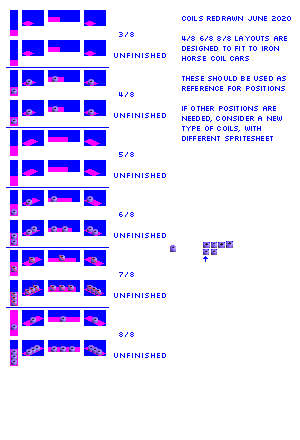
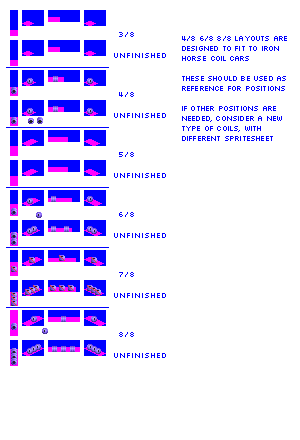
Change: add longitudinal coils (copper, steel)

diff --git a/src/constants.py b/src/constants.py
@@ -198,7 +198,8 @@ cargo_spritesheet_bounding_boxes_base = ((10, 10, 18, 36), (22, 10, 44, 26), (48
 # 2. this permits fine-grained control, e.g. cargos that can only go in open vehicles, outsized cargo that needs flats etc
 # also supports multiple cargo sprite types to suit vehicle, e.g. piled fruit, fruit in crates etc
 # keep alphabetised for general quality-of-life
-piece_vehicle_type_to_sprites_maps = {'flat': ['barrels_silver', 'copper_coils_eye_to_sky', 'crates_1', 'logs',
+piece_vehicle_type_to_sprites_maps = {'coil': ['copper_coils_eye_longitudinal', 'steel_coils_eye_longitudinal', 'tarps_2cc_1'], # tarps_2cc_1 for DFLT
+                                      'flat': ['barrels_silver', 'copper_coils_eye_to_sky', 'crates_1', 'logs',
                                               'lumber_planks', 'paper_coils_eye_to_sky', 'steel_coils_eye_to_sky',
                                               'tarps_2cc_1', 'tarps_blue_1', 'tarps_gold_1', 'tarps_red_1'],
                                       'open':['barrels_silver', 'coffee', 'copper_coils_eye_to_sky', 'crates_1', 'fruit', 'logs',
@@ -212,6 +213,7 @@ piece_vehicle_type_to_sprites_maps = {'flat': ['barrels_silver', 'copper_coils_e
 # DFLT label is a hack to support cargos with no specific sprites (including unknown cargos), and should not be added to cargo translation table
 piece_sprites_to_cargo_labels_maps = {'barrels_silver': ['BEER', 'DYES', 'EOIL', 'MILK', 'OIL_', 'PETR', 'RFPR', 'WATR'],
                                       'coffee': ['JAVA'],
+                                      'copper_coils_eye_longitudinal': ['COPR'],
                                       'copper_coils_eye_to_sky': ['COPR'],
                                       'crates_1': ['GOOD'],
                                       'fruit': ['FRUT'],
@@ -219,6 +221,7 @@ piece_sprites_to_cargo_labels_maps = {'barrels_silver': ['BEER', 'DYES', 'EOIL',
                                       'lumber_planks': ['WDPR'],
                                       'nuts': ['NUTS'],
                                       'paper_coils_eye_to_sky': ['PAPR'],
+                                      'steel_coils_eye_longitudinal': ['STEL', 'METL', 'STAL', 'STCB', 'STST'],
                                       'steel_coils_eye_to_sky': ['STEL', 'METL', 'STAL', 'STCB', 'STST'],
                                       'tarps_blue_1': ['FMSP'],
                                       'tarps_gold_1': ['ENSP'],

diff --git a/src/render_cargo_graphics.py b/src/render_cargo_graphics.py
@@ -43,9 +43,15 @@ piece_cargo_graphics_maps = [("tarps_1", "tarps_blue_1",
                              ("coils_eye_to_sky", "paper_coils_eye_to_sky",
                              {136: 8, 137: 9, 138: 10, 139: 11,
                              140: 12, 141: 13, 142: 14, 143: 15}),
+                             ("coils_eye_longitudinal", "steel_coils_eye_longitudinal",
+                             {136: 3, 137: 16, 138: 17, 139: 18,
+                             140: 19, 141: 20, 142: 21, 143: 22}),
                              ("coils_eye_to_sky", "steel_coils_eye_to_sky",
                              {136: 3, 137: 16, 138: 17, 139: 18,
                              140: 19, 141: 20, 142: 21, 143: 22}),
+                             ("coils_eye_longitudinal", "copper_coils_eye_longitudinal",
+                             {136: 60, 137: 112, 138: 62, 139: 115,
+                             140: 117, 141: 118, 142: 119, 143: 120}),
                              ("coils_eye_to_sky", "copper_coils_eye_to_sky",
                              {136: 60, 137: 112, 138: 62, 139: 115,
                              140: 117, 141: 118, 142: 119, 143: 120})]
